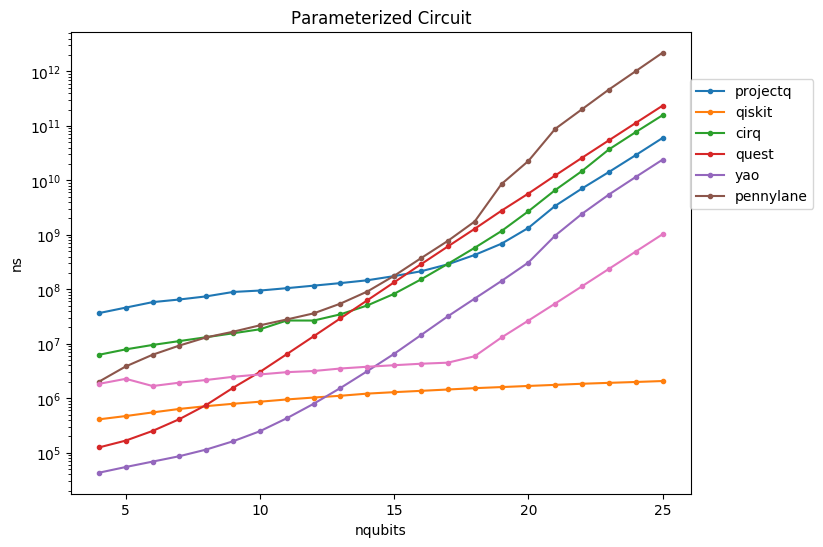
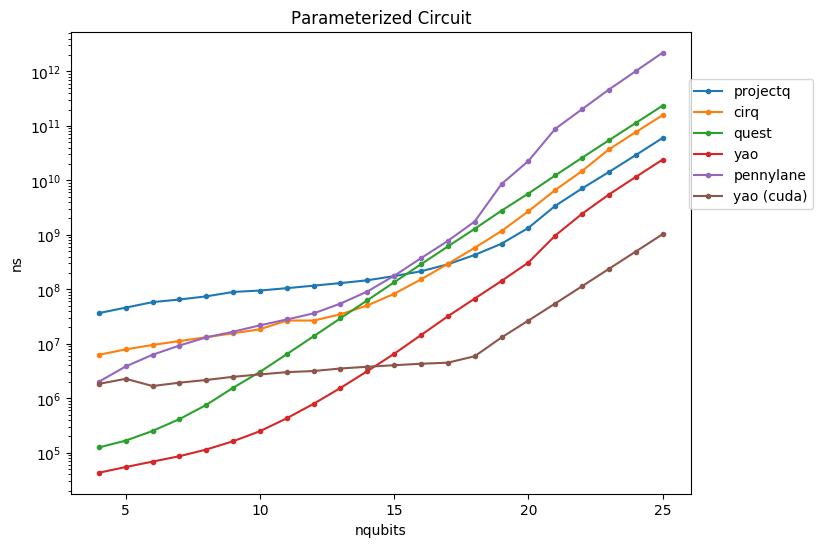
rm qiskit benchmark, its statevector backend doesn't support rotations

diff --git a/plot.py b/plot.py
@@ -71,15 +71,20 @@ circuit_data = {}
 for each_package in packages:
     if each_package == 'yao':
         circuit_data['yao'] = pd.read_csv('yao_qcbm.csv')
+    elif each_package == 'qiskit':
+        continue # skip qiskit, since not supported
     else:
         circuit_data[each_package] = wash_benchmark_data(each_package, ['QCBM'])
 
 packages.append('pennylane')
 circuit_data['pennylane'] = wash_benchmark_data('pennylane', ['QCBM'])
+packages = [each for each in packages if each != 'qiskit']
 
 fig = plt.figure(figsize=(8, 6))
 ax = plt.subplot(111)
 ls = subplot_dataset(circuit_data, ax, 'QCBM')
+
+packages.append('yao (cuda)')
 ls.append(ax.semilogy(circuit_data['yao']["nqubits"], circuit_data['yao']["QCBM_cuda"], '-o', markersize=3))
 ax.set(title="Parameterized Circuit", xlabel="nqubits", ylabel="ns")
 
